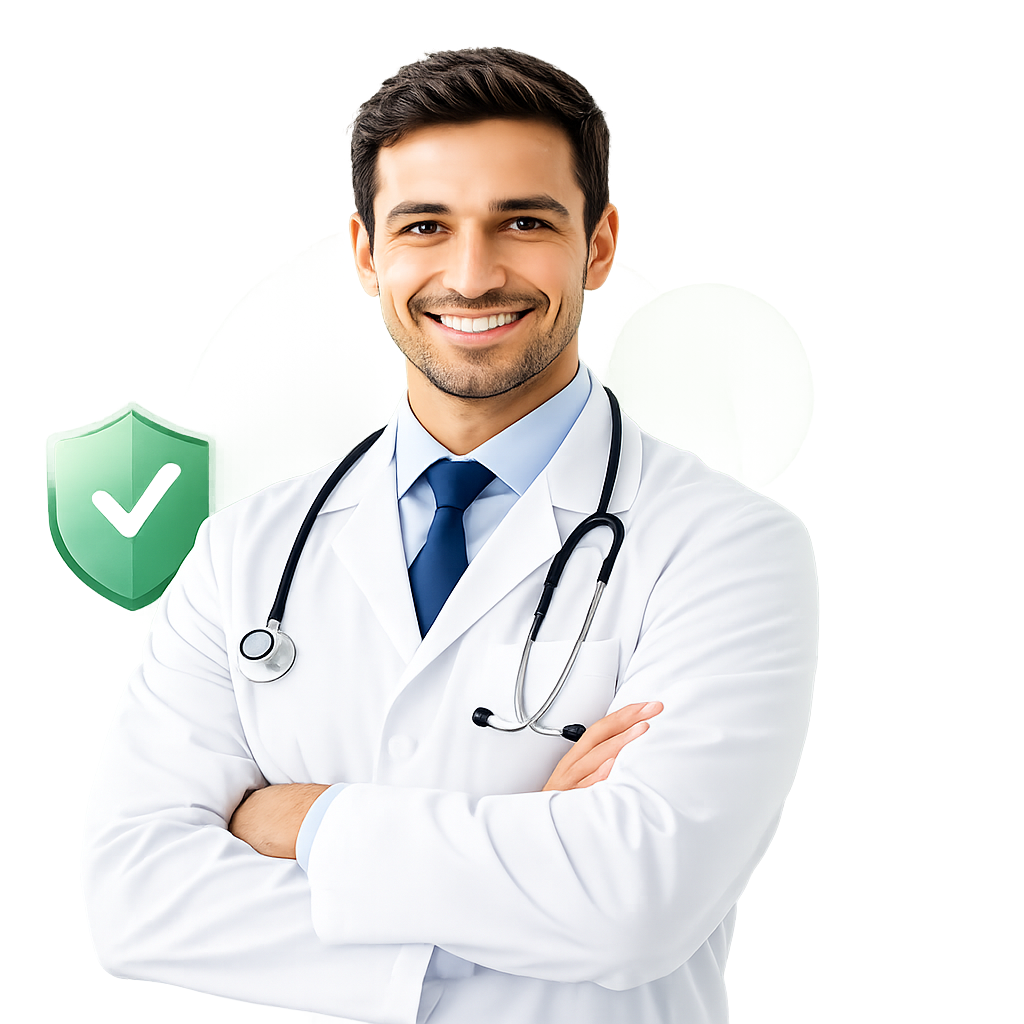
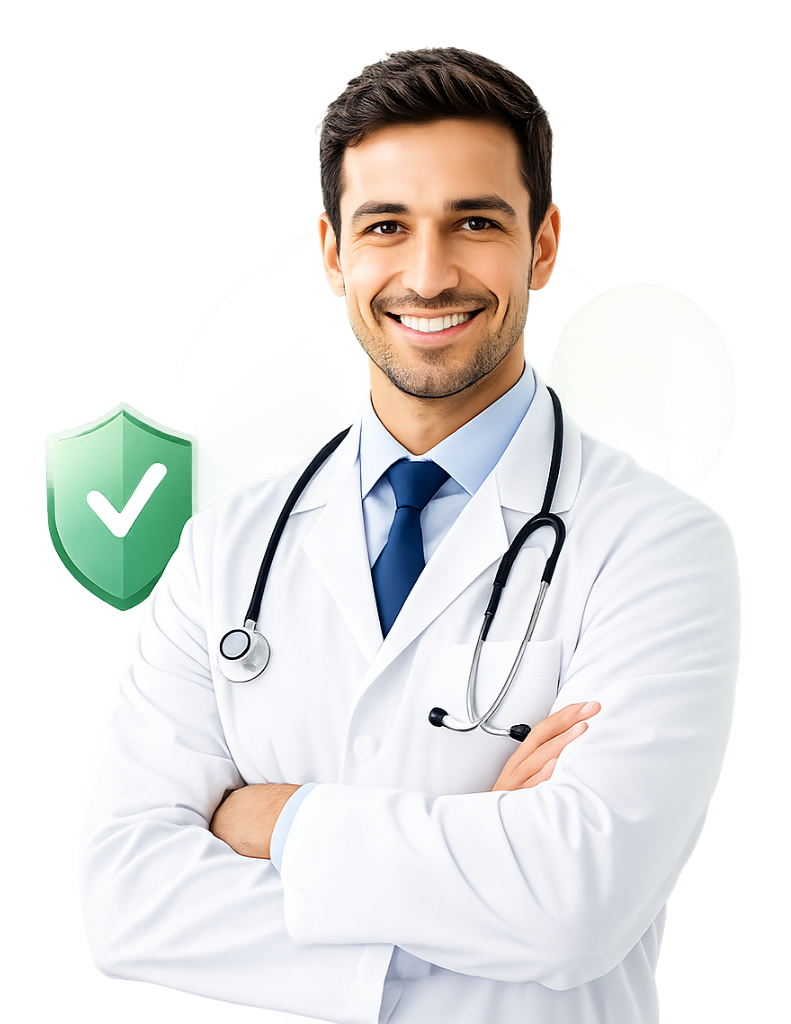
dsadas

diff --git a/components/ForCompaniesSection.tsx b/components/ForCompaniesSection.tsx
@@ -1,8 +1,8 @@
 "use client";
 
-import { 
-  ArrowRight, Building2, Users, TrendingUp, BriefcaseMedical, 
-  ShieldCheck, Clock, Stethoscope, Zap, Star, Heart 
+import {
+  ArrowRight, Building2, Users, TrendingUp, BriefcaseMedical,
+  ShieldCheck, Clock, Stethoscope, Zap, Star, Heart
 } from "lucide-react";
 import Link from "next/link";
 
@@ -10,10 +10,10 @@ export default function ForCompaniesSection() {
   return (
     <section id="dla-firm" className="py-20 bg-white scroll-mt-20 max-w-[95vw] m-auto">
       <div className="w-full px-4 sm:px-8 xl:px-16">
-        
+
         {/* Main Grid */}
         <div className="grid grid-cols-1 lg:grid-cols-2 gap-12 items-center">
-          
+
           {/* Left Column: Heading and Features list */}
           <div>
             <div className="flex flex-col mb-6">
@@ -31,7 +31,7 @@ export default function ForCompaniesSection() {
             </p>
 
             <div className="space-y-6">
-              
+
               {/* Feature 1 */}
               <div className="flex gap-4 items-start">
                 <div className="w-12 h-12 rounded-xl bg-[#E8F3F1] border border-[#D5EAE6] text-[#147A60] flex items-center justify-center flex-shrink-0">
@@ -81,15 +81,15 @@ export default function ForCompaniesSection() {
 
           {/* Right Column: Office photo card and metrics */}
           <div className="bg-[#EFF6F4]/50 border border-[#D5EAE6]/30 rounded-[32px] p-6 flex flex-col justify-between shadow-sm relative">
-            
+
             {/* Photo Wrapper */}
-            <div className="relative w-full h-[320px] rounded-2xl overflow-hidden shadow-sm">
-              <img 
-                src="/for_companies_office.png" 
-                alt="Współpraca biznesowa" 
+            <div className="relative w-full h-[520px] rounded-2xl overflow-hidden shadow-sm">
+              <img
+                src="/for_companies_office.png"
+                alt="Współpraca biznesowa"
                 className="w-full h-full object-cover"
               />
-              
+
               {/* Floating Badge */}
               <div className="absolute top-4 left-4 bg-white/95 rounded-[20px] p-4 shadow-md max-w-[200px] border border-slate-100/50 backdrop-blur-sm z-10 flex gap-2.5 items-start">
                 <div className="w-8 h-8 rounded-lg bg-emerald-50 text-emerald-600 flex items-center justify-center flex-shrink-0">
@@ -101,7 +101,7 @@ export default function ForCompaniesSection() {
 
             {/* Bottom 4-column metrics */}
             <div className="grid grid-cols-2 md:grid-cols-4 gap-4 pt-5 border-t border-[#D5EAE6]/50 mt-5">
-              
+
               {/* Col 1 */}
               <div className="flex gap-2.5 items-center">
                 <div className="w-8 h-8 rounded-full bg-[#E8F3F1] text-[#147A60] flex items-center justify-center flex-shrink-0">
@@ -153,7 +153,7 @@ export default function ForCompaniesSection() {
 
         {/* Bottom Trust/Stats panel */}
         <div className="bg-white rounded-[28px] border border-slate-100 shadow-[0_15px_45px_rgba(0,0,0,0.015)] p-6 mt-16 grid grid-cols-1 sm:grid-cols-2 lg:grid-cols-4 gap-6 divide-y lg:divide-y-0 lg:divide-x divide-slate-100">
-          
+
           {/* Metric 1 */}
           <div className="flex items-center gap-4 px-4 pt-4 first:pt-0 sm:pt-0 lg:pt-0">
             <div className="w-11 h-11 rounded-full bg-[#E8F3F1] border border-[#D5EAE6] text-[#147A60] flex items-center justify-center flex-shrink-0 shadow-sm">

diff --git a/components/Hero.tsx b/components/Hero.tsx
@@ -132,7 +132,7 @@ export default function Hero() {
       </div>
 
       {/* Doctor Image (Desktop Center) */}
-      <div className="absolute  top-auto left-[61%] -translate-x-[47%] h-[82%] [@media(max-height:800px)]:h-[75%] [@media(max-height:700px)]:h-[70%] xl:max-h-[720px] 2xl:max-h-[820px] w-auto z-10 hidden xl:block pointer-events-none select-none">
+      <div className="absolute  top-auto left-[57%] -translate-x-[50%] h-[82%] [@media(max-height:800px)]:h-[75%] [@media(max-height:700px)]:h-[70%] xl:max-h-[720px] 2xl:max-h-[820px] w-auto z-10 hidden xl:block pointer-events-none select-none">
         <img
           src="/gpt.png"
           alt="Lekarz"
